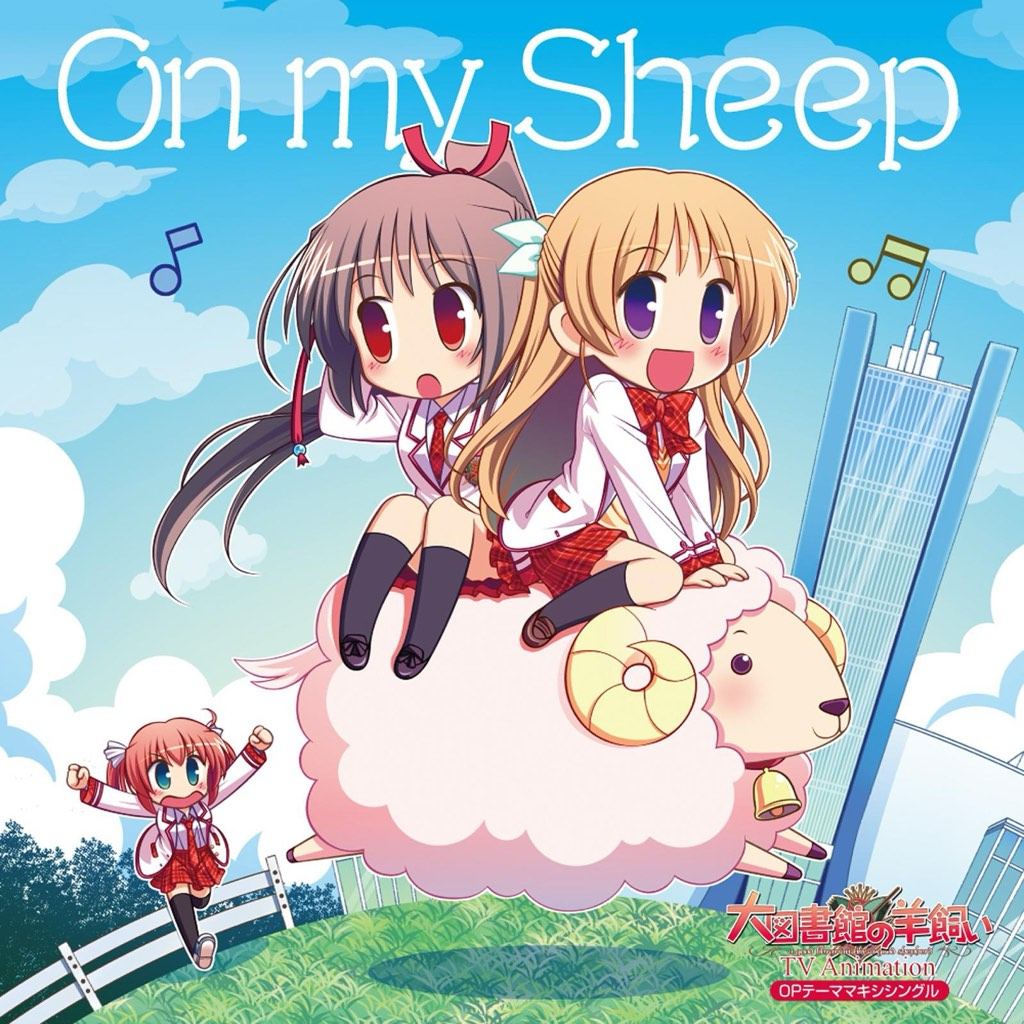
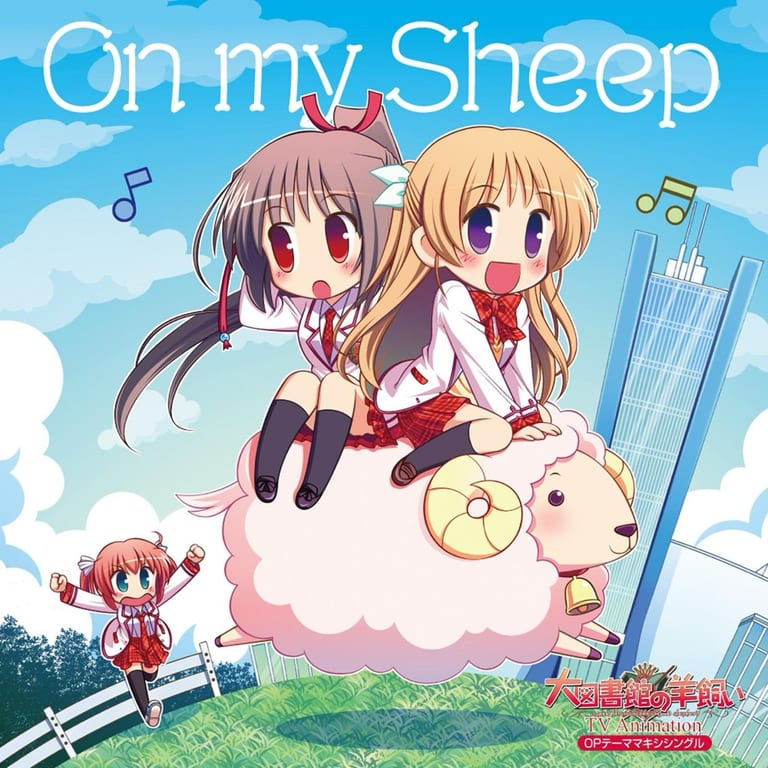
perf(assets): ship bundled raster art as WebP
Convert the 29 bundled PNGs to WebP (lossless for the flat background,
q92 elsewhere) and route every consumer through expo-image, which
decodes WebP on both platforms. Same artwork and dimensions.

- Background/HeaderBar/Listeners/Sheet/Logo/CustomDrawer/AlertProvider
  move from react-native Image to expo-image (resizeMode -> contentFit).
- The native splash keeps assets/splash_top.png for expo-splash-screen;
  the in-app splash uses a WebP copy.
- Re-encode the default cover and the large sample cover.

Android bundled assets: 4.8 MB -> 1.5 MB.

Changed region(s): [[0.7188, 0.875, 0.9062, 0.9688], [0.9062, 0.9062, 0.9375, 0.9375]]

diff --git a/src/contexts/alert/AlertProvider.tsx b/src/contexts/alert/AlertProvider.tsx
@@ -8,9 +8,8 @@ import React, {
   useEffect,
   useMemo,
 } from "react";
+import { Image, type ImageSource } from "expo-image";
 import {
-  Image,
-  ImageSourcePropType,
   KeyboardAvoidingView,
   Modal,
   Text,
@@ -18,8 +17,8 @@ import {
   View,
 } from "react-native";
 import MaterialIcons from "@react-native-vector-icons/material-icons/static";
-import HarukaError from "@/assets/error_haruka.png";
-import HarukaSuccess from "@/assets/success_haruka.png";
+import HarukaError from "@/assets/error_haruka.webp";
+import HarukaSuccess from "@/assets/success_haruka.webp";
 import { THEME } from "@/theme";
 import { styles } from "@/contexts/alert/styles";
 import { Portal } from "@/contexts/Portal";
@@ -112,7 +111,7 @@ export const AlertProvider: React.FC<{ children: ReactNode }> = ({
   const clearToast = useCallback(() => setToastState(null), []);
 
   // Render the modal (PopUpStatus) directly within the provider.
-  const haruka: ImageSourcePropType =
+  const haruka: ImageSource =
     alert?.type === "success" ? HarukaSuccess : HarukaError;
 
   const visible: boolean = alert !== null;
@@ -171,7 +170,7 @@ export const AlertProvider: React.FC<{ children: ReactNode }> = ({
                   color={THEME.COLORS.TEXT}
                 />
               </TouchableOpacity>
-              <Image source={haruka} style={styles.img} />
+              <Image contentFit="contain" source={haruka} style={styles.img} />
               <Text style={styles.text}>{alert?.message}</Text>
               <TouchableOpacity
                 accessibilityRole="button"

diff --git a/src/components/HeaderBar/index.tsx b/src/components/HeaderBar/index.tsx
@@ -1,18 +1,13 @@
 import { useNavigation } from "@react-navigation/native";
 import type { DrawerNavigationProp } from "@react-navigation/drawer";
 import { useEffect, useMemo, useRef, useState } from "react";
-import {
-  Animated,
-  Easing,
-  Image,
-  TouchableOpacity,
-  View,
-} from "react-native";
+import { Image } from "expo-image";
+import { Animated, Easing, TouchableOpacity, View } from "react-native";
 import { useSafeAreaInsets } from "react-native-safe-area-context";
-import menuIcon from "@/assets/icons/menu.png";
-import noteIcon from "@/assets/icons/note.png";
-import playButtonImage from "@/assets/play_square_btn.png";
-import pauseButtonImage from "@/assets/play_triangle_btn.png";
+import menuIcon from "@/assets/icons/menu.webp";
+import noteIcon from "@/assets/icons/note.webp";
+import playButtonImage from "@/assets/play_square_btn.webp";
+import pauseButtonImage from "@/assets/play_triangle_btn.webp";
 import { IMGS } from "@/i18n";
 import { THEME } from "@/theme";
 import { CONTAINER_HEIGHT, ICON_HIT_SLOP, styles } from "@/components/HeaderBar/styles";

diff --git a/src/components/Sheet/index.tsx b/src/components/Sheet/index.tsx
@@ -1,6 +1,5 @@
 import React, { useEffect, useState } from "react";
 import {
-  Image,
   Keyboard,
   LayoutAnimation,
   Modal,
@@ -10,7 +9,8 @@ import {
   TouchableOpacity,
   View,
 } from "react-native";
-import DragIcon from "@/assets/icons/drag_down.png";
+import { Image } from "expo-image";
+import DragIcon from "@/assets/icons/drag_down.webp";
 import { useSafeAreaInsets } from "react-native-safe-area-context";
 import { useDict } from "@/hooks/useDict";
 import { THEME } from "@/theme";
@@ -134,7 +134,7 @@ export function Sheet({
               style={styles.closeArea}
               onPress={closable ? onClose : undefined}
             >
-              <Image source={DragIcon} style={styles.dragIcon} />
+              <Image contentFit="contain" source={DragIcon} style={styles.dragIcon} />
             </TouchableOpacity>
             {children}
           </View>
@@ -168,6 +168,5 @@ const styles = StyleSheet.create({
   },
   dragIcon: {
     height: DRAG_ICON_HEIGHT,
-    resizeMode: "contain",
   },
 });

diff --git a/src/components/CustomDrawer/index.tsx b/src/components/CustomDrawer/index.tsx
@@ -10,7 +10,8 @@ import {
 } from "@react-navigation/native";
 import * as Linking from "expo-linking";
 import { useState } from "react";
-import { Image, StyleSheet, Text, TouchableOpacity, View } from "react-native";
+import { Image } from "expo-image";
+import { StyleSheet, Text, TouchableOpacity, View } from "react-native";
 import { API } from "@/api";
 import { Avatar } from "@/components/Avatar";
 import { ProviderIcon } from "@/components/ProviderIcon";
@@ -286,6 +287,7 @@ export function CustomDrawerContent(props: DrawerContentComponentProps) {
             }}
           >
             <Image
+              contentFit="contain"
               source={IMGS[settings.selectedLanguage].LOGO}
               style={[styles.logo, logoWidth > 0 && { height: logoWidth / LOGO_ASPECT_RATIO }]}
             />

diff --git a/src/i18n/language.en.tsx b/src/i18n/language.en.tsx
@@ -2,10 +2,10 @@ import Svg, { Path, Rect, SvgProps } from "react-native-svg";
 import { version } from "@app/package.json";
 import { Program } from "@/api";
 import { PROGRAM_IMAGES } from "@/constants/programs";
-import logo from "@/assets/logo_EN.png";
-import makeRequest from "@/assets/make_request_harukinha_en.png";
-import lastPlayed from "@/assets/last_played-haru_en.png";
-import lastRequested from "@/assets/last_requested-haru_en.png";
+import logo from "@/assets/logo_EN.webp";
+import makeRequest from "@/assets/make_request_harukinha_en.webp";
+import lastPlayed from "@/assets/last_played-haru_en.webp";
+import lastRequested from "@/assets/last_requested-haru_en.webp";
 
 const PROGRAMS: Program[] = [
   {

diff --git a/src/i18n/language.es.tsx b/src/i18n/language.es.tsx
@@ -3,10 +3,10 @@ import { version } from "@app/package.json";
 import { Program } from "@/api";
 import { PROGRAM_IMAGES } from "@/constants/programs";
 import type { Dict } from "@/i18n/language.en";
-import logo from "@/assets/logo_ES.png";
-import makeRequest from "@/assets/make_request_harukinha_es.png";
-import lastPlayed from "@/assets/last_played-haru_es.png";
-import lastRequested from "@/assets/last_requested-haru_es.png";
+import logo from "@/assets/logo_ES.webp";
+import makeRequest from "@/assets/make_request_harukinha_es.webp";
+import lastPlayed from "@/assets/last_played-haru_es.webp";
+import lastRequested from "@/assets/last_requested-haru_es.webp";
 
 const PROGRAMS: Program[] = [
   {

diff --git a/src/i18n/language.jn.tsx b/src/i18n/language.jn.tsx
@@ -3,10 +3,10 @@ import { version } from "@app/package.json";
 import { Program } from "@/api";
 import { PROGRAM_IMAGES } from "@/constants/programs";
 import type { Dict } from "@/i18n/language.en";
-import logo from "@/assets/logo_JP.png";
-import makeRequest from "@/assets/make_request_harukinha_jn.png";
-import lastPlayed from "@/assets/last_played-haru_jn.png";
-import lastRequested from "@/assets/last_requested-haru_jn.png";
+import logo from "@/assets/logo_JP.webp";
+import makeRequest from "@/assets/make_request_harukinha_jn.webp";
+import lastPlayed from "@/assets/last_played-haru_jn.webp";
+import lastRequested from "@/assets/last_requested-haru_jn.webp";
 
 const PROGRAMS: Program[] = [
   {

diff --git a/src/i18n/language.pt.tsx b/src/i18n/language.pt.tsx
@@ -3,10 +3,10 @@ import { version } from "@app/package.json";
 import { Program } from "@/api";
 import { PROGRAM_IMAGES } from "@/constants/programs";
 import type { Dict } from "@/i18n/language.en";
-import logo from "@/assets/logo_PT.png";
-import makeRequest from "@/assets/make_request_harukinha_pt.png";
-import lastPlayed from "@/assets/last_played-haru_pt.png";
-import lastRequested from "@/assets/last_requested-haru_pt.png";
+import logo from "@/assets/logo_PT.webp";
+import makeRequest from "@/assets/make_request_harukinha_pt.webp";
+import lastPlayed from "@/assets/last_played-haru_pt.webp";
+import lastRequested from "@/assets/last_requested-haru_pt.webp";
 
 const PROGRAMS: Program[] = [
   {

diff --git a/src/components/Background/index.tsx b/src/components/Background/index.tsx
@@ -1,7 +1,7 @@
-import { ImageBackground } from "react-native";
+import { ImageBackground } from "expo-image";
 import { styles } from "@/components/Background/styles";
 
-import backgroundImg from "@/assets/background-animu.png";
+import backgroundImg from "@/assets/background-animu.webp";
 
 interface Props {
   children: React.ReactNode;
@@ -9,11 +9,7 @@ interface Props {
 
 export function Background({ children }: Props) {
   return (
-    <ImageBackground
-      defaultSource={backgroundImg}
-      source={backgroundImg}
-      style={styles.container}
-    >
+    <ImageBackground source={backgroundImg} style={styles.container}>
       {children}
     </ImageBackground>
   );

diff --git a/src/components/Listeners/index.tsx b/src/components/Listeners/index.tsx
@@ -1,7 +1,8 @@
 import React from "react";
-import { Image, Text, View } from "react-native";
-import headphones from "@/assets/icons/headphones.png";
-import headphonesWhite from "@/assets/icons/headphones_white.png";
+import { Image } from "expo-image";
+import { Text, View } from "react-native";
+import headphones from "@/assets/icons/headphones.webp";
+import headphonesWhite from "@/assets/icons/headphones_white.webp";
 import { THEME } from "@/theme";
 import { scale } from "@/theme/responsive";
 import { styles } from "@/components/Listeners/styles";

diff --git a/src/components/Logo/index.tsx b/src/components/Logo/index.tsx
@@ -1,4 +1,4 @@
-import { Image } from "react-native";
+import { Image } from "expo-image";
 import { styles } from "@/components/Logo/styles";
 import { IMGS } from "@/i18n";
 import { useUserSettings } from "@/contexts/user/UserSettingsProvider";
@@ -17,6 +17,7 @@ export function Logo({ size, img }: Props) {
   const defaultImg = IMGS[settings.selectedLanguage].LOGO;
   return (
     <Image
+      contentFit="contain"
       source={img ? img : defaultImg}
       style={[
         styles.image,

diff --git a/src/screens/Loading/index.tsx b/src/screens/Loading/index.tsx
@@ -4,7 +4,7 @@ import { Image } from "expo-image";
 import { THEME } from "@/theme";
 import { hideSplashOnce } from "@/screens/Loading/splash";
 import { FALLBACK_HIDE_MS, styles } from "@/screens/Loading/styles";
-import splashScreenImage from "@app/assets/splash_top.png";
+import splashScreenImage from "@app/assets/splash_top.webp";
 
 export function Loading() {
   useEffect(() => {
